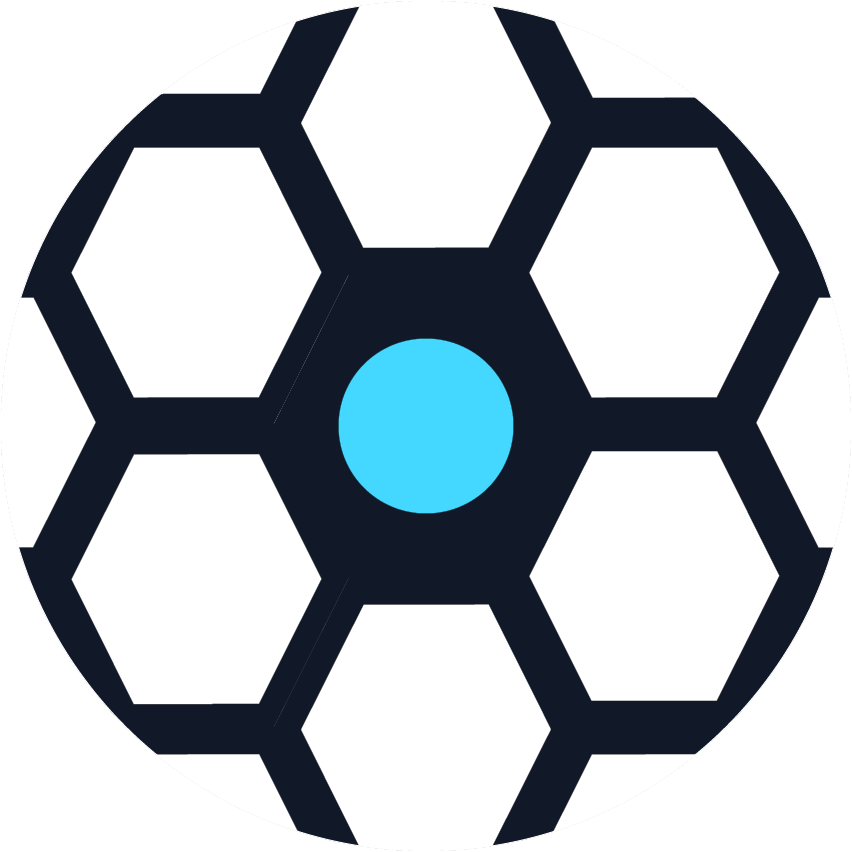
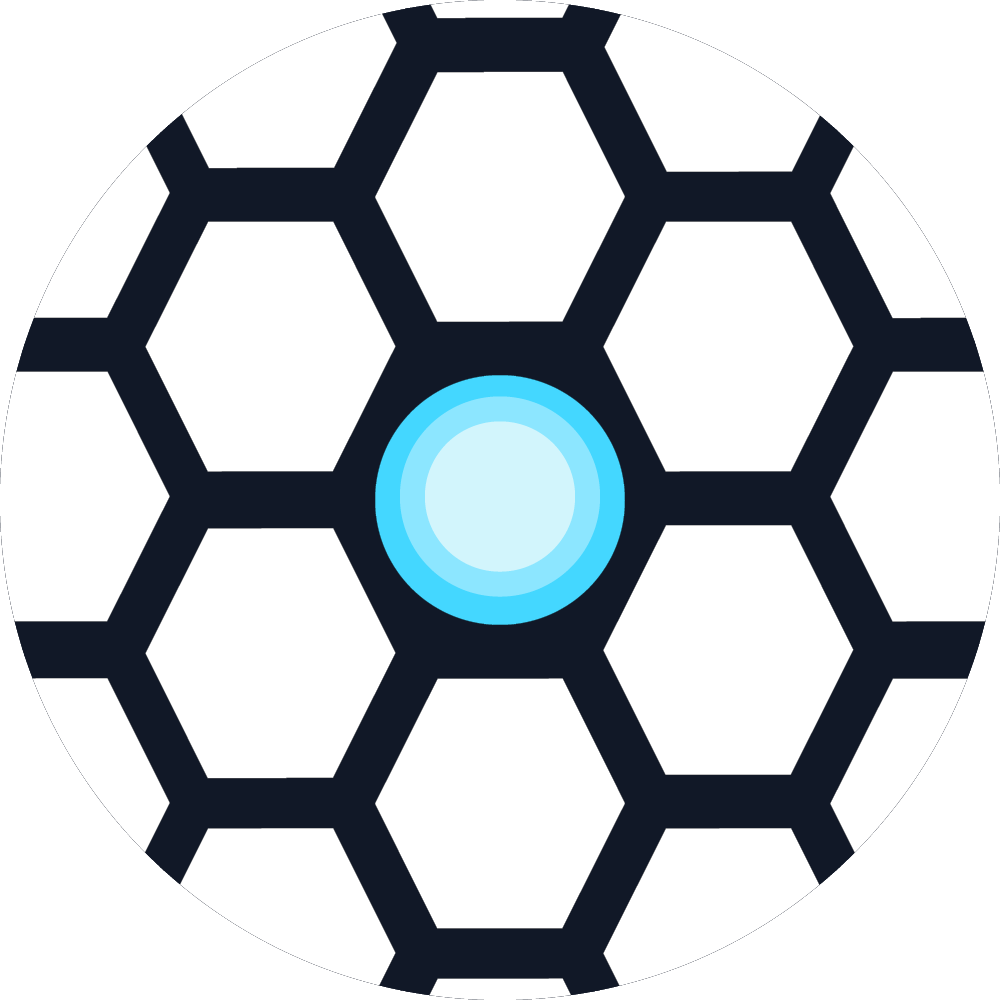
v 2.0.0 new brand

diff --git a/src/styles/global.css b/src/styles/global.css
@@ -31,7 +31,7 @@ a:focus-visible, summary:focus-visible, button:focus-visible { outline: 3px soli
 .section-space { display: flex; min-height: 100vh; min-height: 100svh; align-items: center; padding-block: 88px; scroll-margin-top: 0; }
 .section-soft { background: #f7f8fa; }
 .brand-link { display: inline-flex; width: 152px; height: 44px; flex: 0 0 auto; align-items: center; overflow: hidden; }
-.brand-logo { display: block; width: 152px; height: 44px; object-fit: cover; object-position: center; }
+.brand-logo { display: block; width: 152px; height: 34px; object-fit: contain; object-position: center; }
 .nav-link { color: #d1d5db; font-size: .87rem; transition: color .18s ease; }
 .nav-link:hover { color: #fff; }
 .button { display: inline-flex; min-height: 48px; align-items: center; justify-content: center; gap: 16px; padding: 0 20px; border-radius: 5px; font-size: .88rem; font-weight: 600; transition: background .18s ease, transform .18s ease; }
